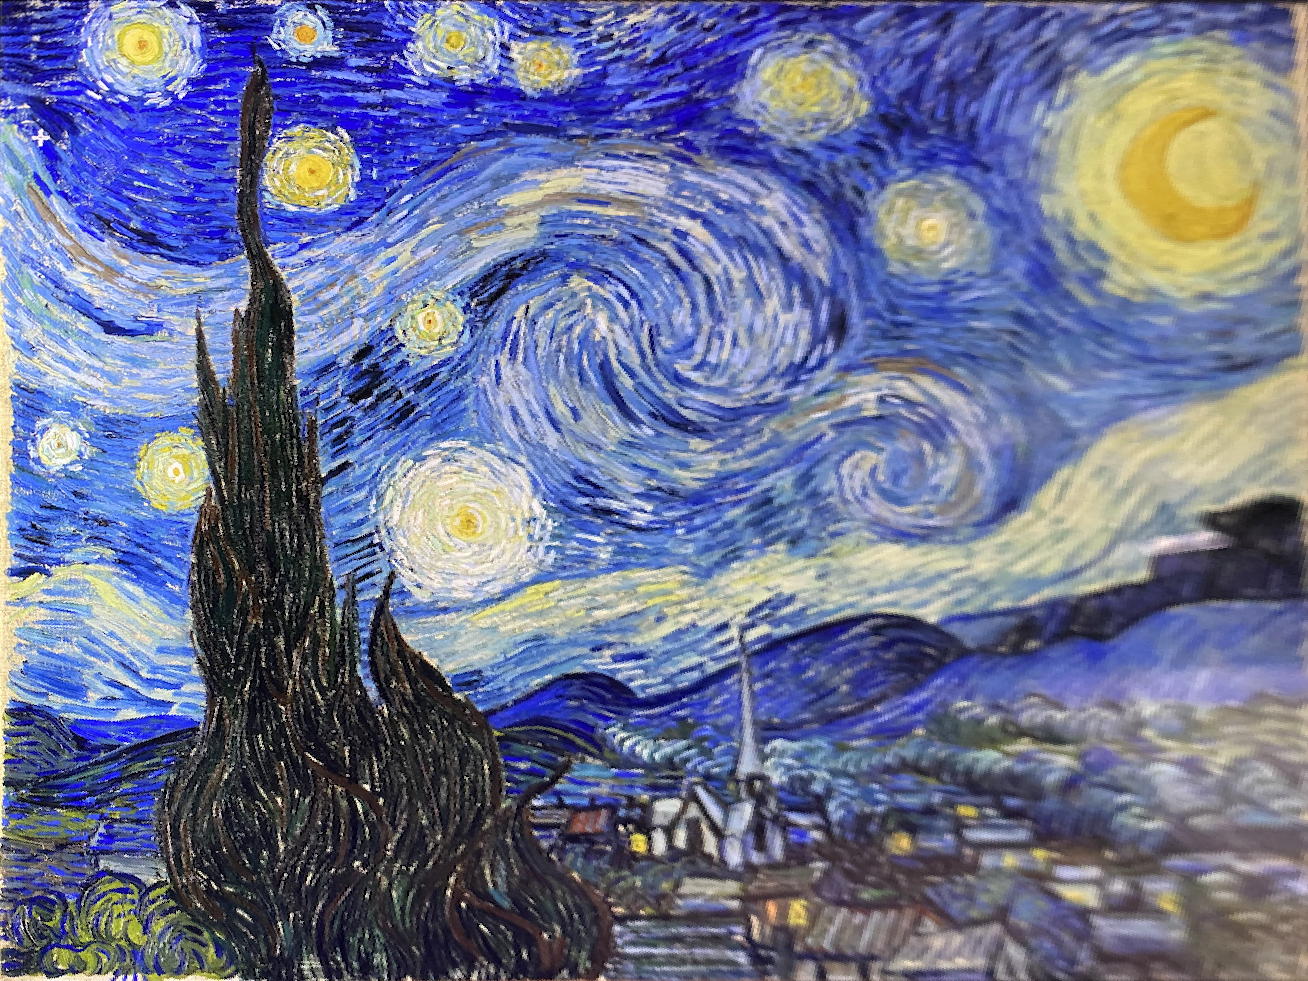
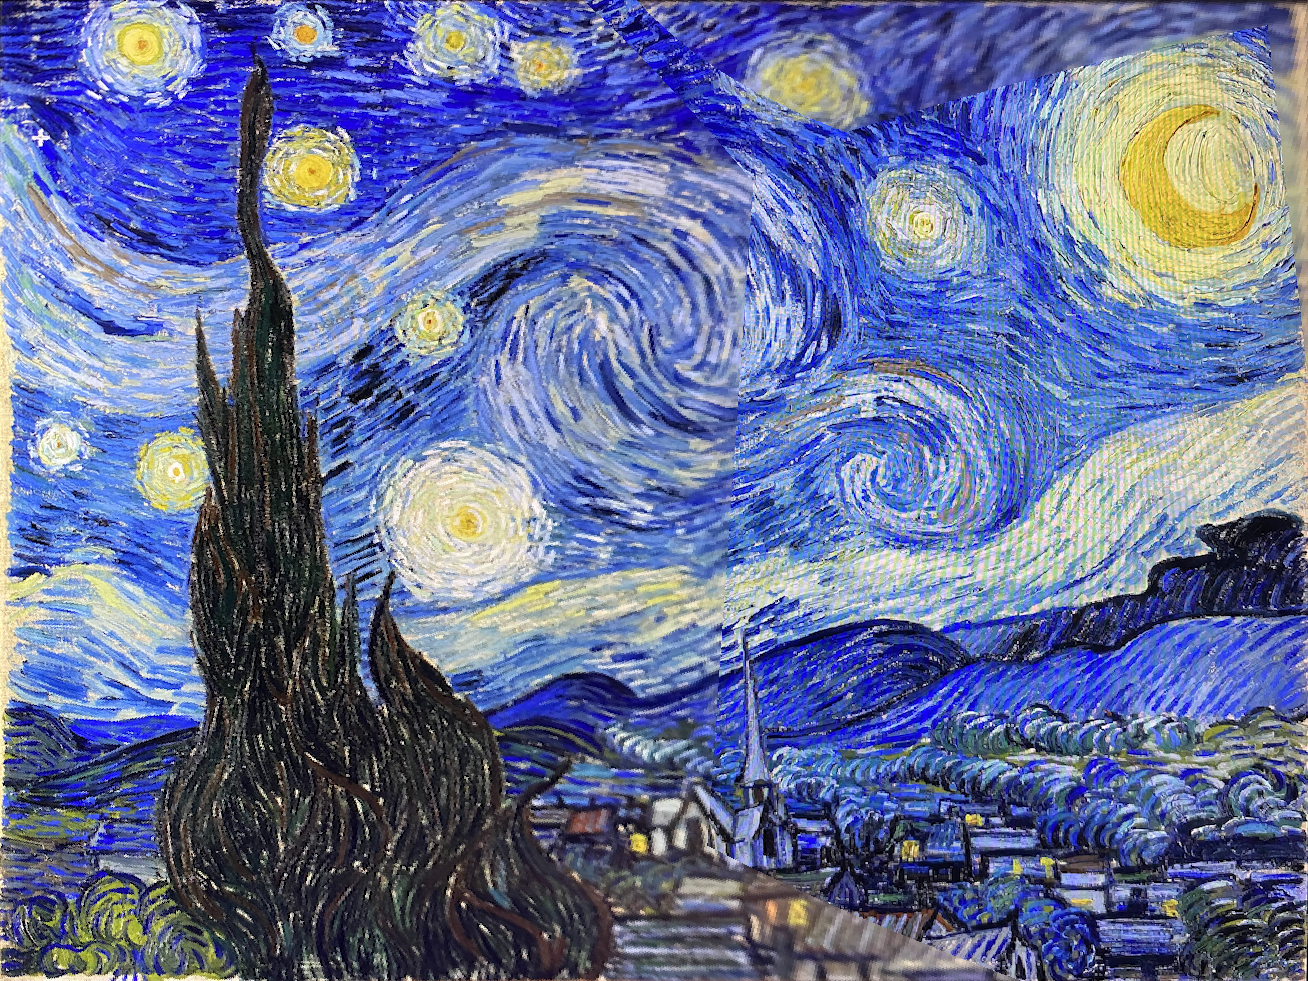
add hardcut fallback always even if one photo completes the rectangle

diff --git a/demo.py b/demo.py
@@ -117,14 +117,18 @@ def panorama(left_path, right_path, points_json,
     warped_l, valid_l, x_l, y_l = warp.warp_image(img_left, H_left, canvas_shape, offset)
     warped_r, valid_r, x_r, y_r = warp.warp_image(img_right, H_right, canvas_shape, offset)
 
-    # 6. Hard-cut panorama (left on top of right where valid)
-    hard_cut = np.zeros_like(warped_l)
-    hard_cut[valid_r] = warped_r[valid_r]
-    hard_cut[valid_l] = warped_l[valid_l]
-
-    # 7. Feather blend
+    # 6. Compute weights
     weights_l = blend.edge_weights(x_l, y_l, valid_l, img_left.shape)
     weights_r = blend.edge_weights(x_r, y_r, valid_r, img_right.shape)
+
+    # 7. Hard-cut composite: pick the photo with higher weight (clean seam between A and B)
+    hard_cut = np.zeros_like(warped_l)
+    take_l = valid_l & (~valid_r | (weights_l >= weights_r))
+    take_r = valid_r & ~take_l
+    hard_cut[take_r] = warped_r[take_r]
+    hard_cut[take_l] = warped_l[take_l]
+
+    # 8. Feather blend
     blended = blend.feather_blend(
         [warped_l, warped_r],
         [weights_l, weights_r],
@@ -212,14 +216,18 @@ def rectify_panorama(left_path, right_path, pairs_json, corners_json,
     warped_l, valid_l, x_l, y_l = warp.warp_image(img_left, H_left_total, canvas_shape, offset)
     warped_r, valid_r, x_r, y_r = warp.warp_image(img_right, H_right_total, canvas_shape, offset)
 
-    # 9. Hard-cut composite
-    hard_cut = np.zeros_like(warped_l)
-    hard_cut[valid_r] = warped_r[valid_r]
-    hard_cut[valid_l] = warped_l[valid_l]
-
-    # 10. Feather blend
+    # 9. Compute feather weights
     weights_l = blend.edge_weights(x_l, y_l, valid_l, img_left.shape)
     weights_r = blend.edge_weights(x_r, y_r, valid_r, img_right.shape)
+
+    # 10. Hard-cut composite: assign pixels to the photo with higher edge weight (clean Voronoi seam)
+    hard_cut = np.zeros_like(warped_l)
+    take_l = valid_l & (~valid_r | (weights_l >= weights_r))
+    take_r = valid_r & ~take_l
+    hard_cut[take_r] = warped_r[take_r]
+    hard_cut[take_l] = warped_l[take_l]
+
+    # 11. Feather blend
     blended = blend.feather_blend(
         [warped_l, warped_r],
         [weights_l, weights_r],
